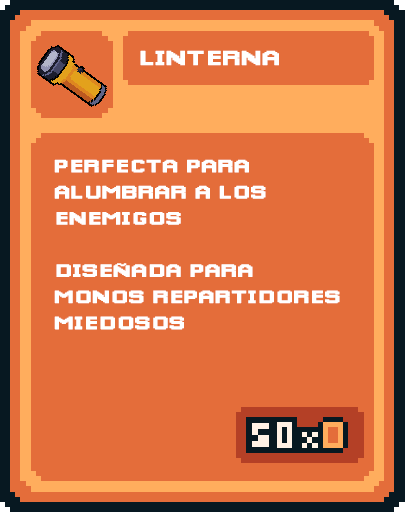
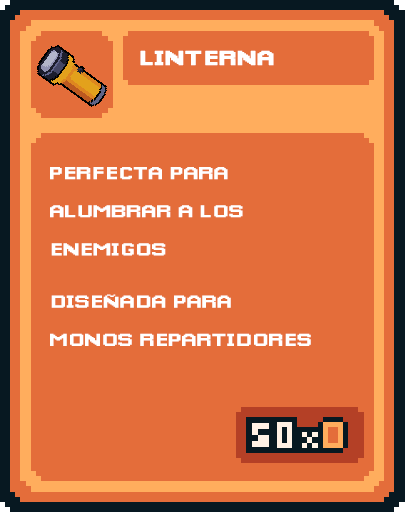
Arreglo panel misiones y linterna

Changed region(s): [[0.1185, 0.4688, 0.8593, 0.6875], [0.1185, 0.3125, 0.6519, 0.4375], [0.3556, 0.0938, 0.7111, 0.1562]]

diff --git a/MonkeyDelivery/Src/Logic/Shop.cpp b/MonkeyDelivery/Src/Logic/Shop.cpp
@@ -55,7 +55,7 @@ void Shop::addElements(int level)
 		objects.push_back({ new EnergyDrink(game->getTexture(shop_Soda2), game,game->getPlayer()), 0, 0, 2, 25 });
 		objects.push_back({ new Skates(game->getTexture(shop_Boots01), game,game->getPlayer()), 2, 0, 1, 45 });		
 		objects.push_back({ new Banana(game->getTexture(shop_Banana), game,game->getPlayer()), 1, 0, 3, 15 });
-		objects.push_back({ new Flashlight(game->getTexture(shop_Farol), game,game->getPlayer()), 3, 0, 1, 20});
+		objects.push_back({ new Flashlight(game->getTexture(shop_Linterna), game,game->getPlayer()), 3, 0, 1, 20});
 		break;
 	case 2:
 		objects.push_back({ new EnergyDrink(game->getTexture(shop_Soda2), game,game->getPlayer()), 0, 0, 3, 25 });

diff --git a/MonkeyDelivery/Src/Logic/MissionsPanel.cpp b/MonkeyDelivery/Src/Logic/MissionsPanel.cpp
@@ -73,7 +73,7 @@ void MissionsPanel::onPlayerInteraction(Player* player)
 			string b = "Mission";
 
 			missionsSent.reserve(levels_[currentLevel_]);
-			for (int i = levelsCompleted_[currentLevel_ - 1.0] + 1; i <= levelsCompleted_[currentLevel_ - 1.0] + levels_[currentLevel_]; ++i) {
+			for (int i = 3*(currentLevel_-1) + 1; i <= 3*(currentLevel_); ++i) {
 				b += to_string(i);
 				if (!missions_.at(b).completed) {
 					missionsSent.push_back(make_pair(b, missions_.at(b).imgRoute));
